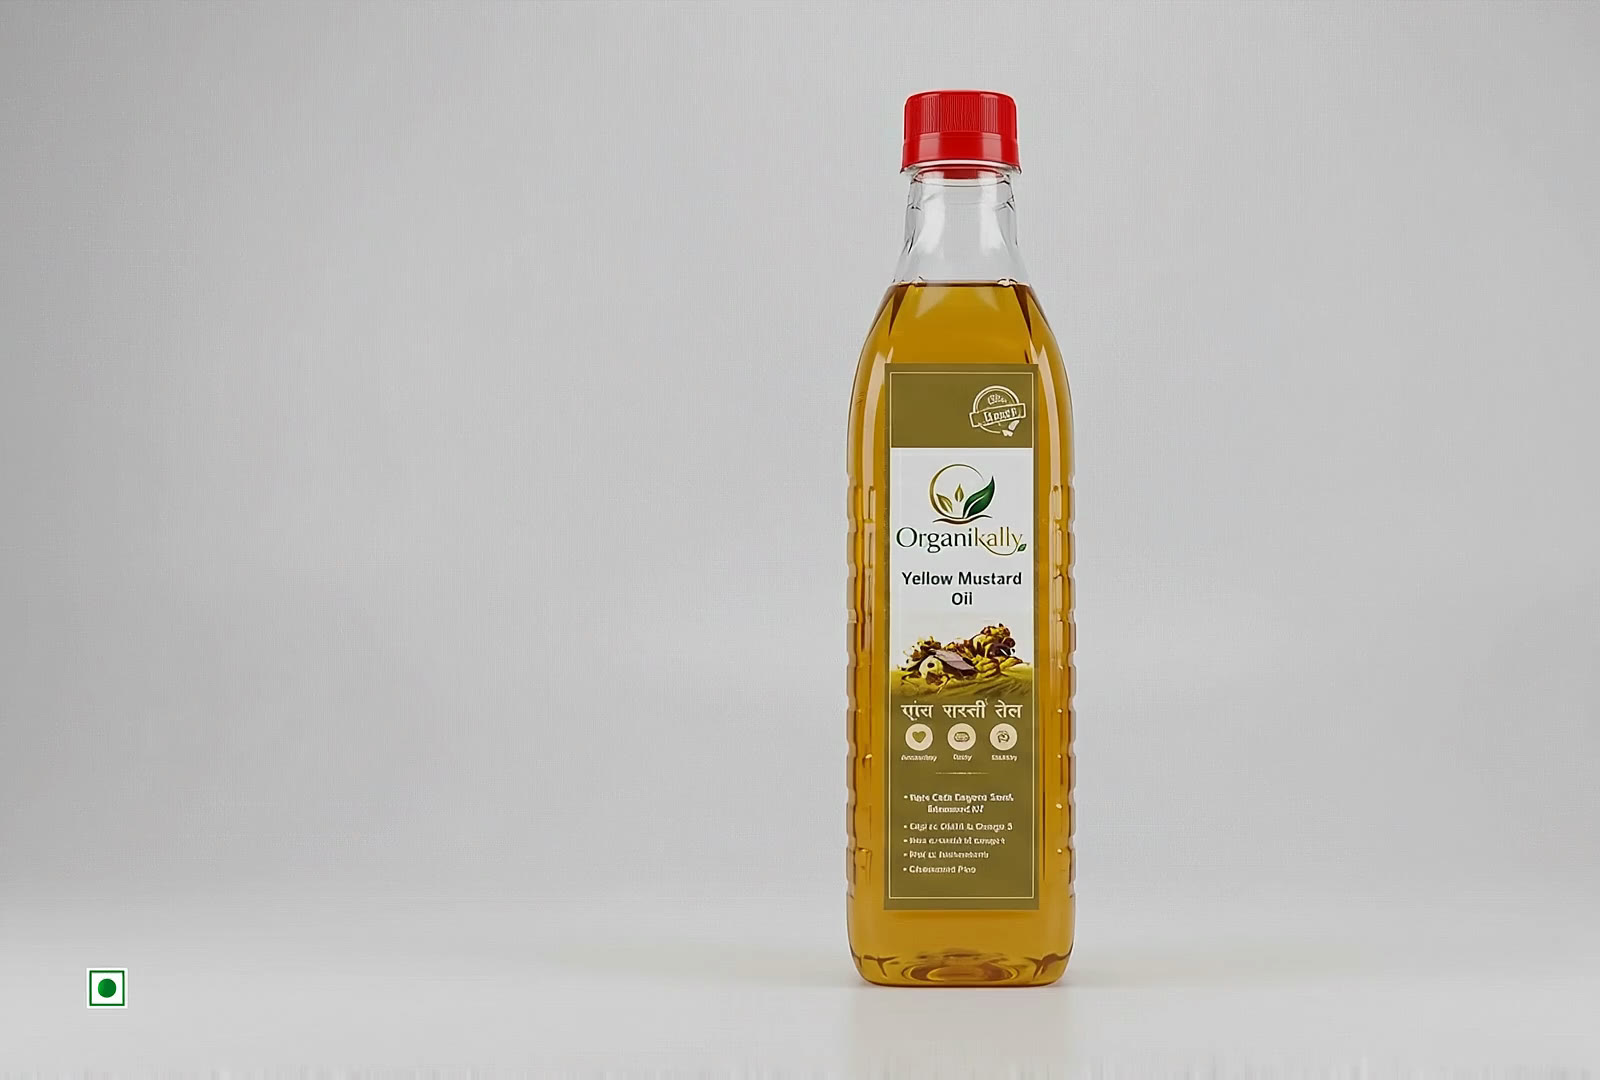
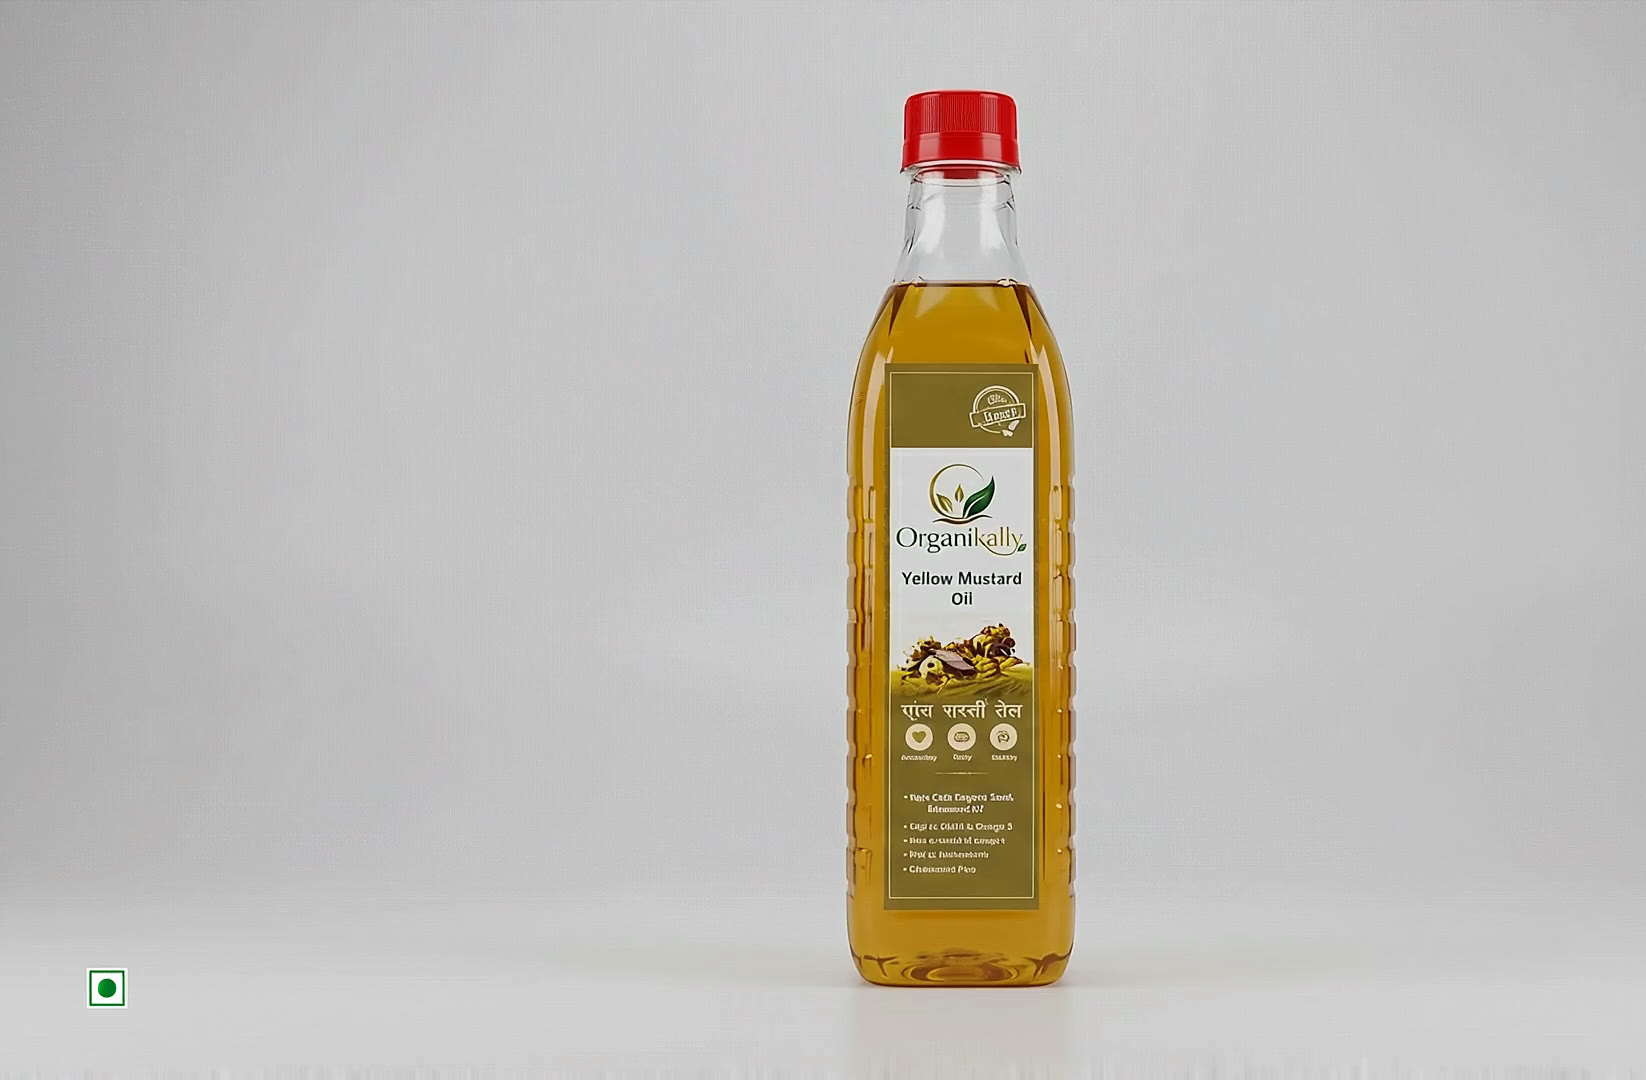
feat(hero): two-act scroll — pinned video scrub stage then content rises on paper; sparse floating hero; 1/7 crop

Changed region(s): [[0.5, 0.0611, 0.6875, 0.9167], [0.0312, 0.8861, 0.0938, 0.9472]]

diff --git a/app/page.tsx b/app/page.tsx
@@ -23,18 +23,28 @@ export default function Home() {
       <SiteHeader />
 
       <main id="main" className="relative z-10">
-        <Hero />
-        <TrustStrip />
-        <Story />
-        <Product />
-        <Range />
-        <Sourcing />
-        <SocialProof />
-        <Recipes />
-        <JournalTeaser />
-        <Faq />
-        <Conversion />
-        <SiteFooter />
+        {/* Act 1 — the film plays out. A tall stage gives the scrub its scroll distance;
+            the sparse hero stays pinned over the uncovered video, then fades. */}
+        <section id="hero-stage" className="relative h-[280vh]">
+          <div className="sticky top-0 h-[100dvh] overflow-hidden">
+            <Hero />
+          </div>
+        </section>
+
+        {/* Act 2 — content rises over the final frame and takes the stage. */}
+        <div className="relative rounded-t-[2.5rem] bg-paper shadow-[0_-44px_80px_-30px_rgba(28,25,18,0.5)]">
+          <TrustStrip />
+          <Story />
+          <Product />
+          <Range />
+          <Sourcing />
+          <SocialProof />
+          <Recipes />
+          <JournalTeaser />
+          <Faq />
+          <Conversion />
+          <SiteFooter />
+        </div>
       </main>
     </>
   );

diff --git a/src/components/hero/HeroScrub.tsx b/src/components/hero/HeroScrub.tsx
@@ -146,11 +146,26 @@ export default function HeroScrub() {
       gsap.ticker.add(ticker);
       gsap.ticker.lagSmoothing(0);
 
+      // The video scrubs across the hero "stage" only (a tall pinned region), so the
+      // film plays out during the opening scroll and then content arrives after it.
+      const heroStage = document.querySelector('#hero-stage');
+      const heroContent = document.querySelector<HTMLElement>('#hero-content');
+      const canvasEl = canvas;
       const st = ScrollTrigger.create({
-        trigger: document.documentElement,
+        trigger: heroStage ?? document.documentElement,
         start: 'top top',
         end: 'bottom bottom',
-        onUpdate: (self) => render(Math.round(self.progress * (count - 1))),
+        onUpdate: (self) => {
+          render(Math.round(self.progress * (count - 1)));
+          // Fade the sparse hero copy out as the film finishes, then dim the canvas
+          // slightly so the rising content reads cleanly over the final frame.
+          if (heroContent) {
+            heroContent.style.opacity = String(
+              self.progress < 0.62 ? 1 : Math.max(0, 1 - (self.progress - 0.62) / 0.3),
+            );
+          }
+          canvasEl.style.opacity = String(self.progress < 0.86 ? 1 : 1 - (self.progress - 0.86) / 0.14 * 0.35);
+        },
       });
 
       const onResize = () => {

diff --git a/src/components/sections/Hero.tsx b/src/components/sections/Hero.tsx
@@ -4,27 +4,32 @@ import { whatsapp } from '@/lib/site';
 
 export default function Hero() {
   return (
-    <section id="top" className="relative flex min-h-[100dvh] items-end pb-16 pt-28 md:items-center md:pb-0">
+    <div className="flex h-full items-center">
       <div className="mx-auto w-full max-w-container px-5 md:px-10">
-        <div className="hero-enter glass-strong max-w-xl rounded-[2rem] p-8 md:p-12">
+        {/* Sparse, floats directly over the video (the crop keeps the bottle to the right,
+            leaving this left column open). A soft white glow lifts the dark text off any frame. */}
+        <div
+          id="hero-content"
+          className="hero-enter max-w-lg [text-shadow:0_1px_28px_rgba(255,255,255,0.6)]"
+        >
           <p className="eyebrow" style={{ '--i': 0 } as CSSProperties}>
             Cold-pressed organic mustard oil
           </p>
           <h1
-            className="mt-5 font-serif text-[clamp(2.9rem,6.4vw,4.9rem)] font-semibold leading-[1.0] tracking-[-0.02em]"
+            className="mt-4 font-serif text-[clamp(2.9rem,6.4vw,5rem)] font-semibold leading-[1.0] tracking-[-0.02em] text-ink"
             style={{ '--i': 1 } as CSSProperties}
           >
             The oil that smells like <span className="italic">home.</span>
           </h1>
           <p
-            className="mt-6 max-w-md text-[1.0625rem] leading-relaxed text-ink-muted"
+            className="mt-6 max-w-md text-[1.0625rem] font-medium leading-relaxed text-ink"
             style={{ '--i': 2 } as CSSProperties}
           >
             Pressed cold from organically grown yellow mustard seed. Nothing added, nothing taken
-            out. <span className="font-deva text-ink">शुद्ध सरसों तेल</span>.
+            out. <span className="font-deva">शुद्ध सरसों तेल</span>.
           </p>
           <div
-            className="mt-9 flex flex-wrap items-center gap-3"
+            className="mt-9 flex flex-wrap items-center gap-3 [text-shadow:none]"
             style={{ '--i': 3 } as CSSProperties}
           >
             <Cta href={whatsapp()} variant="primary" whatsapp external>
@@ -36,6 +41,6 @@ export default function Hero() {
           </div>
         </div>
       </div>
-    </section>
+    </div>
   );
 }

diff --git a/src/components/sections/TrustStrip.tsx b/src/components/sections/TrustStrip.tsx
@@ -10,10 +10,10 @@ const items = [
 
 export default function TrustStrip() {
   return (
-    <section className="relative z-10 -mt-6 md:-mt-8">
+    <section className="relative z-10 pt-14 md:pt-20">
       <div className="mx-auto max-w-container px-5 md:px-10">
         <Reveal>
-          <ul className="glass-pill flex flex-wrap items-center justify-center gap-x-8 gap-y-3 rounded-full px-7 py-4">
+          <ul className="mx-auto flex max-w-3xl flex-wrap items-center justify-center gap-x-8 gap-y-3 rounded-full border border-line bg-white px-7 py-4 shadow-[0_18px_40px_-28px_rgba(28,25,18,0.4)]">
             {items.map(({ label, Icon }) => (
               <li key={label} className="flex items-center gap-2 text-sm font-medium text-ink">
                 <Icon className="h-[18px] w-[18px] text-yellow-ink" strokeWidth={1.8} aria-hidden="true" />